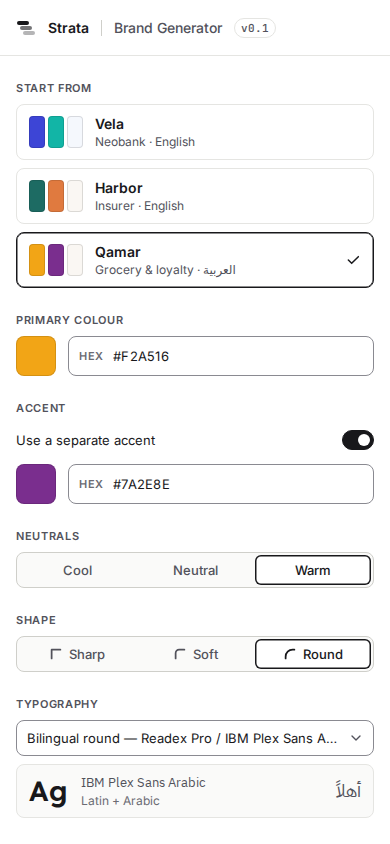
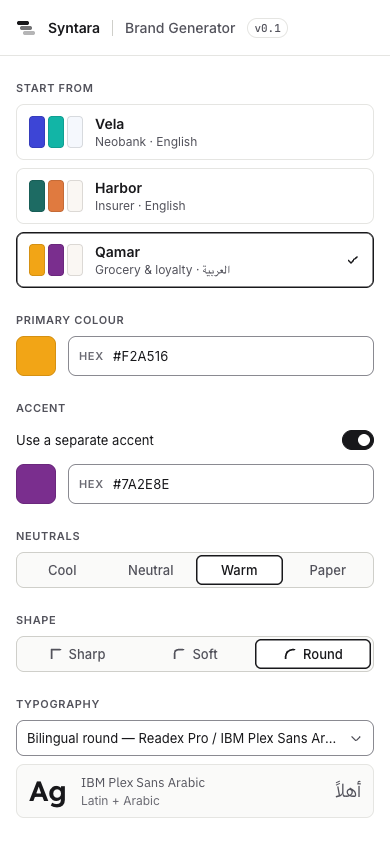
docs: prepare the repo to go public, and ADR-037 for why (#23)
* docs: the repo describes its standard, not its author's job search

Before going public, the places that framed Syntara as an interview
portfolio are reworded to state the rule or the standard instead.

- BRIEF.md §0 drops the employment description and the roles being
  applied for; it keeps why the bar is where it is.
- BRIEF.md §14, §15 and the ADR template say who-decided has to be
  legible to a reader, rather than naming interviewers.
- CLAUDE.md leads with the standard the project is held to.
- The differentiation research says "anywhere public".

GOVERNANCE.md §5 is left alone on purpose: saying out loud that this is
one maintainer, and marking what is and isn't enforced by a script, is
the honest claim the rest of the file depends on.

Prose only. No script, test or CI job reads these four files
(verified by grep over every tracked .ts/.tsx/.mjs/.js/.yml).

* docs: log the public-eyes pass, and what going public still needs

Records the pre-publication audit (what was checked, with the command
and its result), the two findings left unfixed, the decision to publish
the whole repo MIT against a narrower recommendation, and the 21st.dev
research behind it.

Also records, for the second time in this checkout, two sessions running
against one working copy: the branch changed from docs/phase-6-status to
feat/home-layout mid-session, with a merge commit three minutes old.

* docs: ADR-037 for going public, and screenshots that show Syntara
[…]

diff --git a/docs/log.md b/docs/log.md
@@ -6,6 +6,171 @@ Numbers only with the command that produced them. Design trade-offs get an ADR i
 
 ---
 
+## 2026-10-01 (public-eyes pass) — the repo stops describing its author's job search
+
+Groundwork for making the repo public and listing the site on 21st.dev. A read-only audit first, then a
+prose-only scrub. No code changed.
+
+**Changed**
+- **`BRIEF.md` §0 drops the employment description.** "Senior Product Designer, 7 years, founding designer at a
+  white-label B2B2C platform… moving into Lead / Staff Product Designer and UX Design Engineer roles" became "a
+  product designer who has built multi-brand systems — one product rendered as many client brands." The bar the
+  repo has to clear is still stated; the job search is not. Public and permanent means searchable, including by
+  a current employer, and that is the one finding in this audit with a personal consequence rather than a
+  presentational one.
+- **Five more places stop addressing interviewers and state the rule instead.** `BRIEF.md` §13 ("it's the proof
+  the policy is real"), §14 twice (the log is "the project's timeline"; who-decided has to be legible to "a
+  reader"), the Figma track ("a first-class deliverable, judged alongside the code"), `CLAUDE.md`'s opening ("it
+  is maintained to a standard where…"), `docs/adr/000-template.md` ("the maintainer decided vs. what the agent
+  recommended"), and `docs/research/2026-09-27-differentiation.md` ("anywhere public").
+- **`GOVERNANCE.md` §5 is deliberately unchanged.** Saying out loud that this is one maintainer, and marking
+  what is and is not enforced by a script, is the honest claim the rest of that file rests on. Removing it to
+  look bigger would be the dishonest edit.
+- **[ADR-037](adr/037-public-repo-and-21st-template.md)** records the decision. Numbered 037, not the 027 this
+  session first planned: 027 is the tooltip ADR, and the wrong number came from `CLAUDE.md`'s status line, which
+  still lists the open ADRs as 024–026 and is three phases out of date. **`CLAUDE.md`'s status section is stale
+  and was not corrected here.**
+- **The nine Phase 1 screenshots are regenerated** (`pnpm screenshots`). They said "Strata | Brand Generator
+  v0.1"; they now say Syntara. The regeneration also caught real drift the old images predated: the token count
+  moved 316 → 339 and the neutrals row gained a fourth option, "Paper".
+- **Three docs-site screenshots are reshot into a new `docs/screenshots/v0.5/`** — home, themes and the Button
+  component page — and `README.md`'s hero image points at `v0.5/home.png`. A new folder rather than overwriting
+  `v0.2/`, because the site is on v0.5 (the changelog's top heading) and regenerating inside a folder named for
+  v0.2 would make the name a lie. The stale `v0.2/` images are left as the v0.2 record; nothing references them
+  any more except this log.
+
+**Decided**
+- **Publish the whole repo open source, MIT, and list the site as a 21st.dev template — Anuj.** Claude laid out
+  three options and recommended the narrow one: publish only the docs-site shell with a neutral tenant and
+  placeholder copy, keeping the five real brands and the written content out of it. Anuj chose the whole repo
+  for reach, having been told once that public + MIT cannot be recalled, that 21st rehosts a pinned commit, and
+  that anyone may then ship the portfolio site commercially keeping only the copyright line.
+  **[ADR-037](adr/037-public-repo-and-21st-template.md).**
+- **Soften `BRIEF.md` §0 rather than leave it or move it to an untracked file — Claude recommended, Anuj
+  accepted.** Leaving it keeps a searchable job-hunt notice; cutting it entirely loses the explanation for why
+  the standards sit where they do.
+- **Keep `GOVERNANCE.md` §5 and reword the other five — Claude recommended, Anuj accepted.** The alternative,
+  removing the framing everywhere, risks the repo reading as though it claims to be a staffed project.
+- **Apply the scrub in a fresh worktree rather than on the branch that was checked out — Claude.** See Results.
+
+**Results**
+
+Pre-publication safety audit. Every row is the command and what it returned on 2026-10-01.
+
+| Check | Command | Result |
+|---|---|---|
+| Secret-shaped tracked files | `git ls-files` piped through `grep -Ei '\.env\|secret\|credential\|\.pem$\|\.key$\|token'` | 20 hits, **all false positives** — the word "token" in design-token code |
+| `.env` on disk | `find . -name '.env*' -not -path '*/node_modules/*' -not -path './.git/*'` | **none exist** |
+| Credentials in history | `git log -p --all` piped through `grep -Eo 'sk-ant-…\|sk-…\|gh[pousr]_…\|AKIA…\|AIza…'` | **nothing**, across all 65 commits |
+| How the eval authenticates | `grep -rn "API_KEY\|apiKey\|process\.env" evals/*.mjs` | spawns the `claude` CLI and inherits `process.env`; **no key stored** |
+| Personal contact details | grep for email, LinkedIn and phone patterns over all tracked text | **none**; the only identifier is `@anujpatel06` in `.github/CODEOWNERS`, which is wanted |
+| Tracked agent config | `git ls-files .claude` → 9 files, grepped for `/Users/`, `/home/`, `C:\` | **clean**; no absolute paths, no local config |
+| Tenant copy realism | grep for ~30 real bank, retailer and payment brands over `tenants/*/*.json` | **no real company passed off as a client**; people, card numbers and `app.vela.example` are invented |
+| Tracked images | `git ls-files` counted against `\.(png\|jpg\|jpeg\|gif)$` | 23, all under `docs/screenshots/` |
+
+Two findings from that audit are **not** fixed here:
+
+- **The README's hero image is wrong three ways.** `docs/screenshots/v0.2/home.png` shows the logo reading
+  **"Strata"** (the pre-rename name), the badge **"v0.2 · 41 components"** against the README's 53, and the
+  install line `npx shadcn@latest add @strata/button` — the old scope *and* the shadcn path reversed by the
+  ADR-011 revision. The three `phase-1` images carry "Strata | Brand Generator v0.1" too. The ten `phase-5a`
+  images are fine: they are tenant renders and carry no Syntara chrome. This is the first thing a visitor sees
+  on GitHub and in a 21st listing.
+- **Tenant copy uses real trademarks descriptively** — UPI ×16, WhatsApp ×7, IMPS ×4 across
+  `tenants/*/content.json` and the block content files. Normal and defensible for a realistic Indian fintech and
+  reseller demo. Recorded, not changed.
+
+After the scrub, over every tracked `.md`, `.json`, `.ts` and `.tsx` except `docs/log.md` (1,455 files):
+
+| Pattern | Result |
+|---|---|
+| `interview\|recruit\|hiring\|Lead/Staff\|moving into` | **NONE** |
+| `white-label\|B2B2C\|7 years\|founding designer\|Senior Product Designer` | **NONE** (one unrelated hit: Razorpay Blade's white-labelling, in the competitor research table) |
+| `portfolio project` | **`GOVERNANCE.md:5` only** — intended |
+
+`pnpm typecheck && pnpm test` was **not** run. A grep for `BRIEF\.md\|000-template\.md\|2026-09-27-differentiation`
+over every tracked `.ts`, `.tsx`, `.mjs`, `.js`, `.yml` returns nothing, so no script, test or CI job reads any
+of the four edited files; a green suite would have proved nothing about this diff. The greps above are the check.
+
+**Two sessions were live in the same checkout again.** This session started on `docs/phase-6-status` with two
+modified files; by the time the audit finished, `git status` reported `feat/home-layout` on a clean tree and the
+reflog showed `commit (merge): Merge main into feat/home-layout` **three minutes earlier**. The scrub was
+therefore applied in a new worktree, `.claude/worktrees/chore+public-eyes-scrub`, branched from `origin/main`'s
+tip (`git rev-list --count HEAD..origin/main` = 0), leaving `feat/home-layout` untouched. Second recorded
+occurrence in this checkout.
+
+**21st.dev, read on 2026-10-01.** Page reads, not script output — no number here is a Syntara metric.
+
+- It hosts components, templates and shadcn themes. There is no way to list a website as such; a whole site is a
+  **template**, and `/publish/template` exists behind sign-in.
+- Two library lists: **143 "On 21st"**, which authors uploaded, and a **shadcn directory of ~360 registries**
+  crawled from public repos and ranked by GitHub stars. **React Aria is in the directory** (154 components,
+  ★16k) without ever having published. A crawled author page carries the banner *"21st created this page
+  automatically… This person has not signed up for 21st"* — Fancy Components has 3.9M views and 17.4K bookmarks
+  on exactly that basis. Being crawled, rather than publishing, is the route with precedent.
+- The component market rewards marketing spectacle, not primitives: Buttons 2043, Cards 1780, Forms 1522,
+  Heroes 1152, against Sign Ins 103, Toasts 79, Empty States 77; the popular list is scroll animations, shaders
+  and liquid-glass buttons at 6–10k bookmarks each. **Documentation templates: 11**, out of roughly 700 — the
+  thinnest shelf on the site, and the one Syntara fits.
+- Open-source templates are **rehosted by 21st pinned to one commit, licence intact**, installed with
+  `npx @21st-dev/cli@latest template add <slug>`; the listing shows repo, licence and commit sha.
+- `curl -s -o /dev/null -w '%{http_code}' https://syntara.pages.dev` → **200**, so the "Open preview" link a
+  listing needs already exists.
+
+Screenshot runs. The first `pnpm screenshots` **failed** — `vite: command not found`, because a fresh worktree
+has no `node_modules` — and the failure was hidden by piping the command through `tail`, so the shell reported
+exit 0 over "✗ Generator build failed (exit 1)". Every run below captures the real exit code.
+
+| Run | Result |
+|---|---|
+| `pnpm install` in the worktree | 599 packages, **done in 5.7s** |
+| `pnpm screenshots` | **9 screenshots**, axe on 6 preview pages, **0 violations**, real exit **0** |
+| `pnpm --filter @syntara/docs build` | exit **0**, `apps/docs/.next/BUILD_ID` = `cdDwFGlplCAbXnamqi967` |
+| `serve out -l 4317`, then `scripts/served-build.mjs http://localhost:4317` | exit **0** — the served build is this one. `lsof -nP -iTCP:4317 -sTCP:LISTEN` confirmed pid 3235, the server this session started |
+| `scripts/shoot.mjs` ×3 at 1440×900 | home, themes, component-page saved, exit 0 each |
+
+The images were then opened and read, not trusted from the exit codes. `phase-1/vela-light.png` now reads
+"Syntara | Brand Generator v0.1". `v0.5/home.png` reads "Syntara", the pill reads **v0.5 · 53 components**
+against the old "v0.2 · 41 components", and the install line is "The packages are on npm" where it used to be
+`npx shadcn@latest add @strata/button`. `v0.5/component-page.png` no longer shows the "Registry" nav entry or
+the "Registry item" button — both removed by the ADR-011 revision, both still present in the old image — and
+installs with `pnpm add @syntara/react @syntara/tokens`.
+
+The docs build was run, not `next dev`, so the gotcha where `next dev` rewrites `apps/docs/AGENTS.md`,
+`apps/docs/CLAUDE.md` and `next-env.d.ts` did not apply; `git status` after the run showed only the intended
+files.
+
+**The hero was then shot twice,** because the homepage changed underneath it. `#22` (the entry below this one)
+landed on `main` while this branch was open and rewrote `apps/docs/app/page.tsx`,
+`apps/docs/components/home/sections.tsx` and `sections.module.css`, so the first `v0.5/home.png` was already a
+picture of the old homepage. Merging `main` in conflicted only on this file — two entries at the top, both
+kept — after which the site was rebuilt (`BUILD_ID` `cdDwFGlplCAbXnamqi967` → `i8gQFW-TKfCIOAzUNJ_i3`),
+`served-build.mjs` re-checked the served copy, and the hero was reshot. The rebuild was proved to contain the
+merged homepage before the shot, not after: three strings that exist only in #22's diff — "Values change, never
+names", "Scope a theme to one screen", "How theming works" — were grepped out of `apps/docs/out/index.html`.
+Above the fold the two shots look nearly the same; #22's new sections are below 900px at 1440 wide.
+
+**Next**
+- **Prove a clean clone runs.** `pnpm install && pnpm docs` from a fresh clone in a temp directory, not from a
+  working copy with a warm store and an existing `node_modules`. This is the last real engineering risk before
+  the repo is public. Partly evidenced already: this worktree started with no `node_modules`, and `pnpm install`
+  then a full docs build both succeeded from it. A worktree shares the pnpm store with the main checkout, so it
+  is not the same test as a cold clone on another machine.
+- ~~`CLAUDE.md`'s status section is three phases stale.~~ Fixed in this session. It listed the open ADRs as
+  024–026 when the repo holds 037, which is what produced the wrong ADR number here. The waiting-on-Anuj line
+  now names all seven open ADR questions (020, 024, 025, 026, 032, 034, 035, read from each file's Status
+  line), a Going public bullet tracks the ADR-037 work, and a closing line tells the next reader to check
+  `ls docs/adr/` rather than trust the number.
+- **Then, and only then,** `gh repo edit --visibility public`. Irreversible.
+- **Open question, worth answering before that irreversible step:** 21st's open-source templates all appear to
+  be single runnable apps, and whether a pnpm monorepo is accepted is unknown. If it is not, `apps/docs` has to
+  be extracted, and the chokepoint is `apps/docs/lib/repo.ts` — `REPO_ROOT = cwd/../..`, read at build time for
+  `tenants/*` and `packages/react/meta/*` — plus the literal `../../` in `tsconfig.json`, `next.config.mjs`,
+  `blocks/tenant-content.check.ts` and `lib/meta-types.ts`.
+- **Unrelated housekeeping:** `.claude/worktrees/heuristic-noyce-7a829a` is 1.2 GB on disk and untracked.
+
+---
+
 ## 2026-10-01 (home) — the homepage in Anuj's layout, and the brand reaches the whole page
 
 **Changed**
@@ -60,6 +225,9 @@ canvas — the existing guard, working.
 - **The FAQ answers are mine, not Anuj's.** Seven answers drafted from the repository; they state what the site
   already claims elsewhere, but they are prose in his voice and want his read before anyone sees them.
 - The version schemes are still split: the hero pill reads `v0.5` from the changelog, npm reads `0.1.0`.
+
+---
+
 ## 2026-10-01 — the CSP check survives a network blip, and CI stops assuming port 3000
 
 **Changed**

diff --git a/BRIEF.md b/BRIEF.md
@@ -8,7 +8,7 @@
 
 ## 0. Who you're pairing with
 
-I'm Anuj Patel — Senior Product Designer, 7 years, founding designer at a white-label B2B2C platform (one product, many client brands). I'm moving into **Lead / Staff Product Designer** and **UX Design Engineer** roles at large product companies. This repo is a portfolio project that must survive a lead-level design-systems interview, where people will open the code, the Figma file and the docs.
+I'm Anuj Patel, a product designer who has built multi-brand systems — one product rendered as many client brands. This repo has to hold up to a lead-level design-systems review, where people open the code, the Figma file and the docs and judge all three.
 
 I own design decisions. You pair with me on engineering and push back when I'm wrong. Optimise for: **visual craft, correctness, honest claims, and a small finished scope over a big half-done one.**
 
@@ -145,7 +145,7 @@ Treat these as product, not paperwork. They're what separates a lead from someon
 - **GOVERNANCE.md** — who decides what; contribution flow: *Issue → RFC (template) → design review → build → docs → release*; review SLA; a decision tree for requests: **extend an existing component vs. new variant vs. new component vs. local override**.
 - **Versioning** — semver via Changesets, generated changelog.
 - **Deprecation policy** — deprecate in a minor, remove in the next major, a codemod ships with every breaking change.
-  **Do it once for real:** rename `Button variant="danger"` → `tone="critical"` (or a token rename), mark it deprecated in `$extensions` and meta, ship the codemod, run it on `apps/reference`, record it in the changelog. Keep the diff — it's an interview story.
+  **Do it once for real:** rename `Button variant="danger"` → `tone="critical"` (or a token rename), mark it deprecated in `$extensions` and meta, ship the codemod, run it on `apps/reference`, record it in the changelog. Keep the diff — it's the proof the policy is real.
 - **ADRs (≥8)**, each ≤1 page: Context / Decision / Alternatives / Consequences. Suggested:
   - 001 Token build tool
   - 002 Headless primitives — build vs. buy (Radix vs. React Aria)
@@ -275,8 +275,8 @@ Max ~600 words of prose on the page. Everything else is interactive or visual.
 - When a choice has a design trade-off, **stop and ask me** with 2–3 options and your recommendation. My answer becomes an ADR.
 - After any UI work, take Playwright screenshots of every tenant × scheme and show me before moving on.
 - Never invent metrics. Every number comes from a script; write the command next to it.
-- Update `docs/log.md` every session (changed / decided / next). It becomes my interview timeline.
-- In every ADR and log entry, record **who made the call**: "Anuj decided" vs. "Claude recommended, Anuj accepted". Interviewers will ask what I did versus the agent — the record has to answer that.
+- Update `docs/log.md` every session (changed / decided / next). It is the project's timeline.
+- In every ADR and log entry, record **who made the call**: "Anuj decided" vs. "Claude recommended, Anuj accepted". A reader has to be able to tell what the maintainer decided from what the agent recommended.
 
 ---
 
@@ -294,7 +294,7 @@ Max ~600 words of prose on the page. Everything else is interactive or visual.
 
 ## Anuj's track — Figma (not for the agent)
 
-Runs in parallel with Phases 1–3. Interviewers for product-design roles will open the Figma file.
+Runs in parallel with Phases 1–3. The Figma file is a first-class deliverable, judged alongside the code.
 
 - Import the Figma-variables JSON from `packages/tokens` (variables-import plugin or Tokens Studio).
 - **Split modes across collections** — Brand (3 modes), Scheme (2), Density (2) — so no collection needs more than 3 modes. This fits plan mode limits and mirrors the code's token architecture. Confirm your plan's limit first.

diff --git a/docs/adr/037-public-repo-and-21st-template.md b/docs/adr/037-public-repo-and-21st-template.md
@@ -1,0 +1,34 @@
+# ADR-037: Publish the repository open source and list the site as a 21st.dev template
+
+- **Status:** Accepted — decided by Anuj (Claude recommended a narrower option; see Alternatives)
+- **Date:** 2026-10-01
+- **Principles:** none of BRIEF §3 bear on this. It is a distribution and licensing decision, not a system-design one.
+
+## Context
+
+- The repository is private (`gh repo view --json isPrivate` → `true`), MIT-licensed, 0 stars, 65 commits.
+- 21st.dev hosts components, templates and shadcn themes. A whole website is listed as a **template**; there is no site directory. Its **Documentation** category holds 11 templates out of roughly 700 — the thinnest shelf on the site.
+- Open-source templates there are rehosted by 21st **pinned to one commit, licence intact**, and installed with `npx @21st-dev/cli@latest template add <slug>`. That requires a public repo.
+- A listing needs a live preview. `curl -s -o /dev/null -w '%{http_code}' https://syntara.pages.dev` → **200**.
+- A pre-publication audit (logged 2026-10-01) found no credentials in any of the 65 commits, no `.env` files, no personal contact details, and no real company passed off as a tenant.
+
+## Decision
+
+- **Make the repository public under its existing MIT licence**, whole, including `apps/docs`, all six tenants and their copy.
+- **Submit it to 21st.dev as an open-source template** in Documentation, with Portfolio, Developer Tool, Next.js and React as secondary tags, and `https://syntara.pages.dev` as the preview.
+- **Publish the monorepo as-is.** Nothing is extracted: a template whose entry point is `pnpm install && pnpm docs` keeps `apps/docs/lib/repo.ts` reading `tenants/*` and `packages/react/meta/*` from the repo root, as it does today.
+- **Prerequisites before the repository is flipped:** regenerate the stale screenshots, and prove a clean clone builds and serves.
+- **The shadcn-directory route stays closed.** That crawl indexes *served* registries, and ADR-011's revision keeps `pnpm registry` output gitignored and unserved. Nothing here reopens it; a separate ADR would.
+
+## Alternatives considered
+
+- **Publish only the docs-site shell** — one neutral tenant, placeholder copy, the five real brands and the written content withheld. Claude recommended this: it reaches the same empty Documentation shelf, advertises `@syntara/*` on every install, and keeps the artefact being published distinct from the artefact used in interviews. Anuj chose reach over that separation.
+- **Sell it as a paid template from the private repo** (the going rate there is $19–$99, zip upload). Rejected: smallest audience, and no track record as a seller.
+- **Do nothing.** Rejected: the differentiation research for Phase 6 is still outstanding, but the Documentation shelf is open now and costs little to take.
+
+## Consequences
+
+- **Good:** the whole system becomes inspectable — the engine, the contrast solver, the governance record and the ADRs, not just the rendered site. The listing links back on every install.
+- **Bad:** irreversible. Once public, assume it is cloned and cached beyond reach. MIT lets anyone ship this site commercially keeping only the copyright line, including a site indistinguishable from the portfolio it was built to be. Anuj was told this before deciding.
+- **Bad:** the repo now carries a public audience's expectations — issues, questions, and a `GOVERNANCE.md` that describes a team process run by one person.
+- **Revisit when:** 21st rejects a monorepo template (then `apps/docs` must be extracted, and `lib/repo.ts`'s `REPO_ROOT = cwd/../..` is the chokepoint), or the differentiation research concludes that design-engineer registries are not the audience worth reaching.

diff --git a/CLAUDE.md b/CLAUDE.md
@@ -1,6 +1,6 @@
 # CLAUDE.md — Syntara
 
-Syntara is a multi-brand design system. It has 53 React Aria components, its own icon set (`@syntara/icons`) and a Next.js docs site, all themed by an engine that turns six brand inputs into a light and dark theme passing WCAG 2.2 AA. It's Anuj Patel's portfolio project for Lead/Staff Product Designer and UX Design Engineer interviews, so **craft, accessibility and honest claims matter more than speed**.
+Syntara is a multi-brand design system. It has 53 React Aria components, its own icon set (`@syntara/icons`) and a Next.js docs site, all themed by an engine that turns six brand inputs into a light and dark theme passing WCAG 2.2 AA. It is maintained to a standard where **craft, accessibility and honest claims matter more than speed**.
 
 - Spec: `BRIEF.md`. Read the relevant section before planning any phase.
 - Component rules: `packages/react/CONVENTIONS.md`. Read it before touching `packages/react` or `apps/docs/examples`.
@@ -17,8 +17,10 @@ Anuj owns design decisions. You pair on engineering and push back when he's wron
   - Agents (Phase 5): `packages/audit` (`pnpm drift`), `packages/mcp`, `AGENTS.md`, `evals/` (results in `evals/results.md`; iteration 1 is invalid and kept on record).
   - Mobile reach (Phase 5a): `packages/sdui`, native token files from `pnpm tokens`, tenant Haat (hi-IN). No native components.
 - **Next:** Phase 6, 2 of 5 (BRIEF §13). Done: npm publish, docs deployed. Left: re-run the differentiation research (the brief says *first*), a README GIF, and `/story`. Docs live on **Cloudflare Pages** (https://syntara.pages.dev; previews per branch, configured in the Cloudflare dashboard, not in this repo). All eight packages are on npm at **0.1.0** under the `@syntara` org. Release with `pnpm changeset publish` from `main`; publish with pnpm, never npm, or `workspace:*` ships literally.
-- **Waiting on Anuj:** review Haat's Hindi copy; ADR-024, 025 and 026; the clipping found in the Arabic and Latin type pairs.
+- **Going public (ADR-037, decided by Anuj):** the repo becomes public under its existing MIT licence and the site is listed on 21st.dev as an open-source template. Done: the pre-publication audit (no credentials in any commit), the scrub of job-search framing, and screenshots that show Syntara rather than the pre-rename "Strata". Left, in order: a **cold clone** test on a machine that does not share this pnpm store, then `gh repo edit --visibility public` — **irreversible** — then the listing. Open question first: 21st's open-source templates all look like single runnable apps, and whether a pnpm monorepo is accepted is unknown.
+- **Waiting on Anuj:** review Haat's Hindi copy; the clipping found in the Arabic and Latin type pairs; and seven ADR questions — **020** (Haat's name, industry and brand inputs), **024** (the whole ADR is Proposed), **025** (the API shape of the generated native files), **026** (accepted for the docs site, review pending), **032** (whether a Hindi reader agrees that रय reads as initials), **034** and **035** (accepted by Claude, review pending).
 - **Known gaps:** listed at the end of the latest entry in `docs/log.md`.
+- **ADRs run to 037.** Check `ls docs/adr/` for the next free number rather than trusting this line; it has been stale before.
 
 ## Run it
 

diff --git a/docs/research/2026-09-27-differentiation.md b/docs/research/2026-09-27-differentiation.md
@@ -9,7 +9,7 @@
 
 - **[V]** read on a primary or official page · **[S]** search snippet or secondary source only · **[OLD]** source older than 2024 · **[U]** could not be verified.
 - Most "not found" results are **absence of evidence**, not proof that nothing exists.
-- **Re-check every claim before it goes on the site or into an interview.** This space moves monthly.
+- **Re-check every claim before it goes on the site or anywhere public.** This space moves monthly.
 - No number here was produced by a Syntara script. None of them may appear on the site as a Syntara metric.
 
 ## 1. Where Syntara stands

diff --git a/docs/adr/000-template.md b/docs/adr/000-template.md
@@ -7,7 +7,7 @@
 <!--
 Rules
 - One page max (~35 lines). Bullets over paragraphs.
-- Status always names who made the call. Interviewers will ask what Anuj decided vs. what the AI recommended.
+- Status always names who made the call. The record has to answer what the maintainer decided vs. what the agent recommended.
 - Numbers only with the command that produces them.
 - Never rewrite an accepted ADR. Write a new one and mark this one "Superseded by ADR-NNN".
 - File name: NNN-kebab-title.md. Add a line to docs/log.md under "Decided".

diff --git a/README.md b/README.md
@@ -4,7 +4,7 @@ A multi-brand design system that humans and AI agents build with.
 
 53 React Aria components, its own icon set, a server-driven UI schema and a docs site with live previews, all themed by an engine that turns six brand inputs into a light and dark theme passing WCAG 2.2 AA.
 
-![Syntara docs home](docs/screenshots/v0.2/home.png)
+![Syntara docs home](docs/screenshots/v0.5/home.png)
 
 | Vela · neobank | Harbor · insurer | Qamar · grocery, Arabic RTL |
 |---|---|---|
